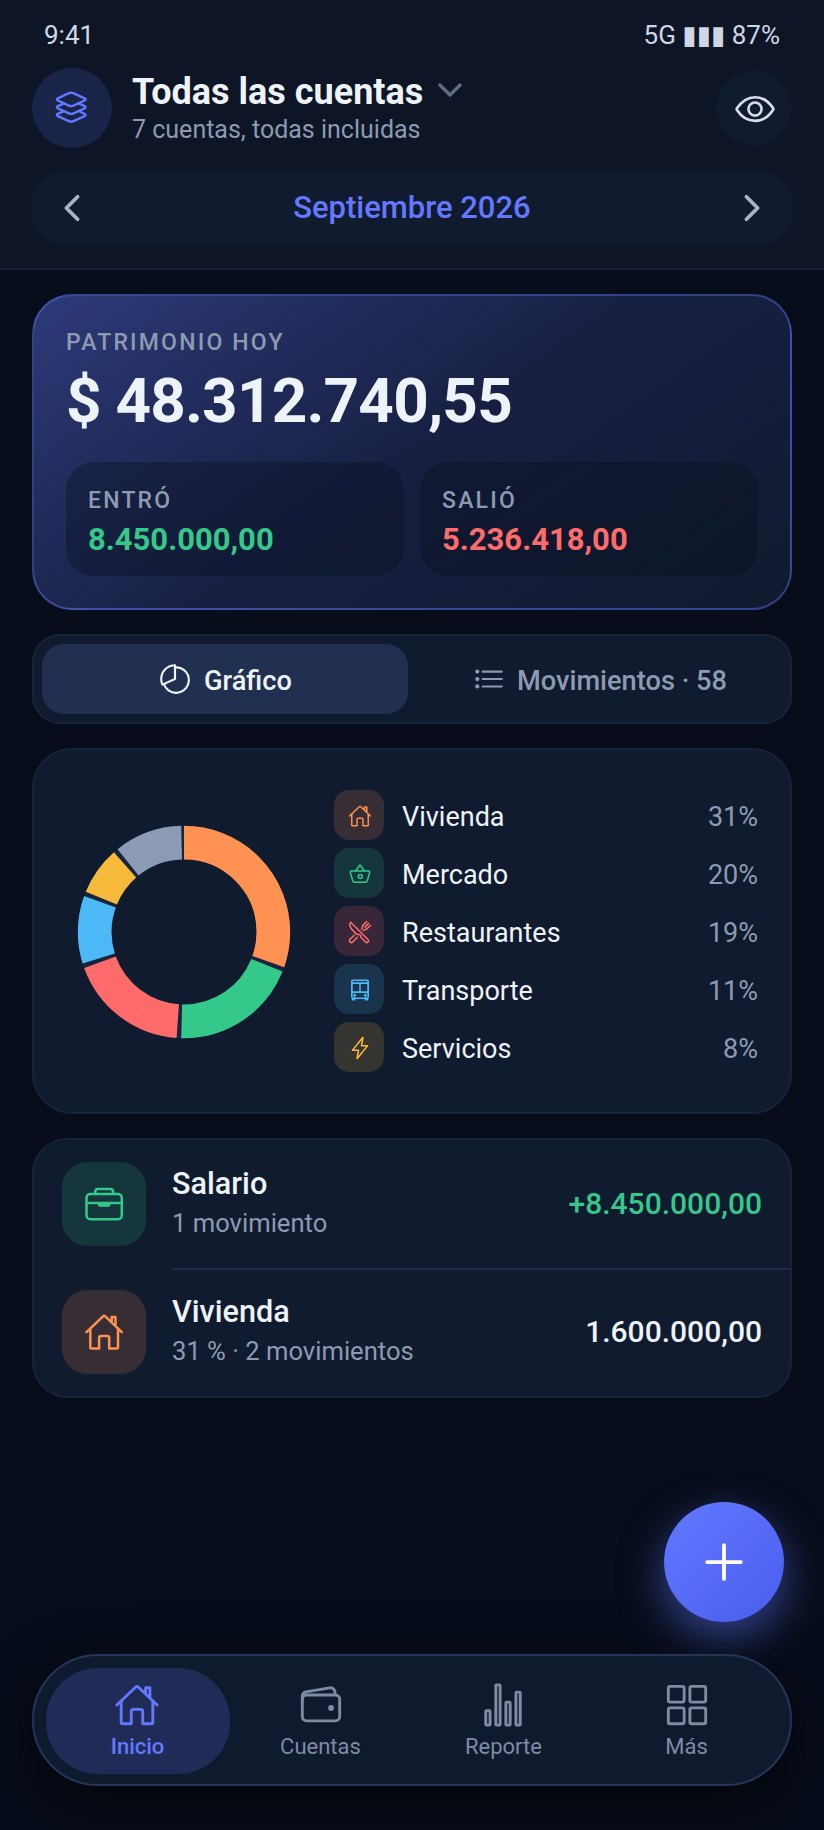
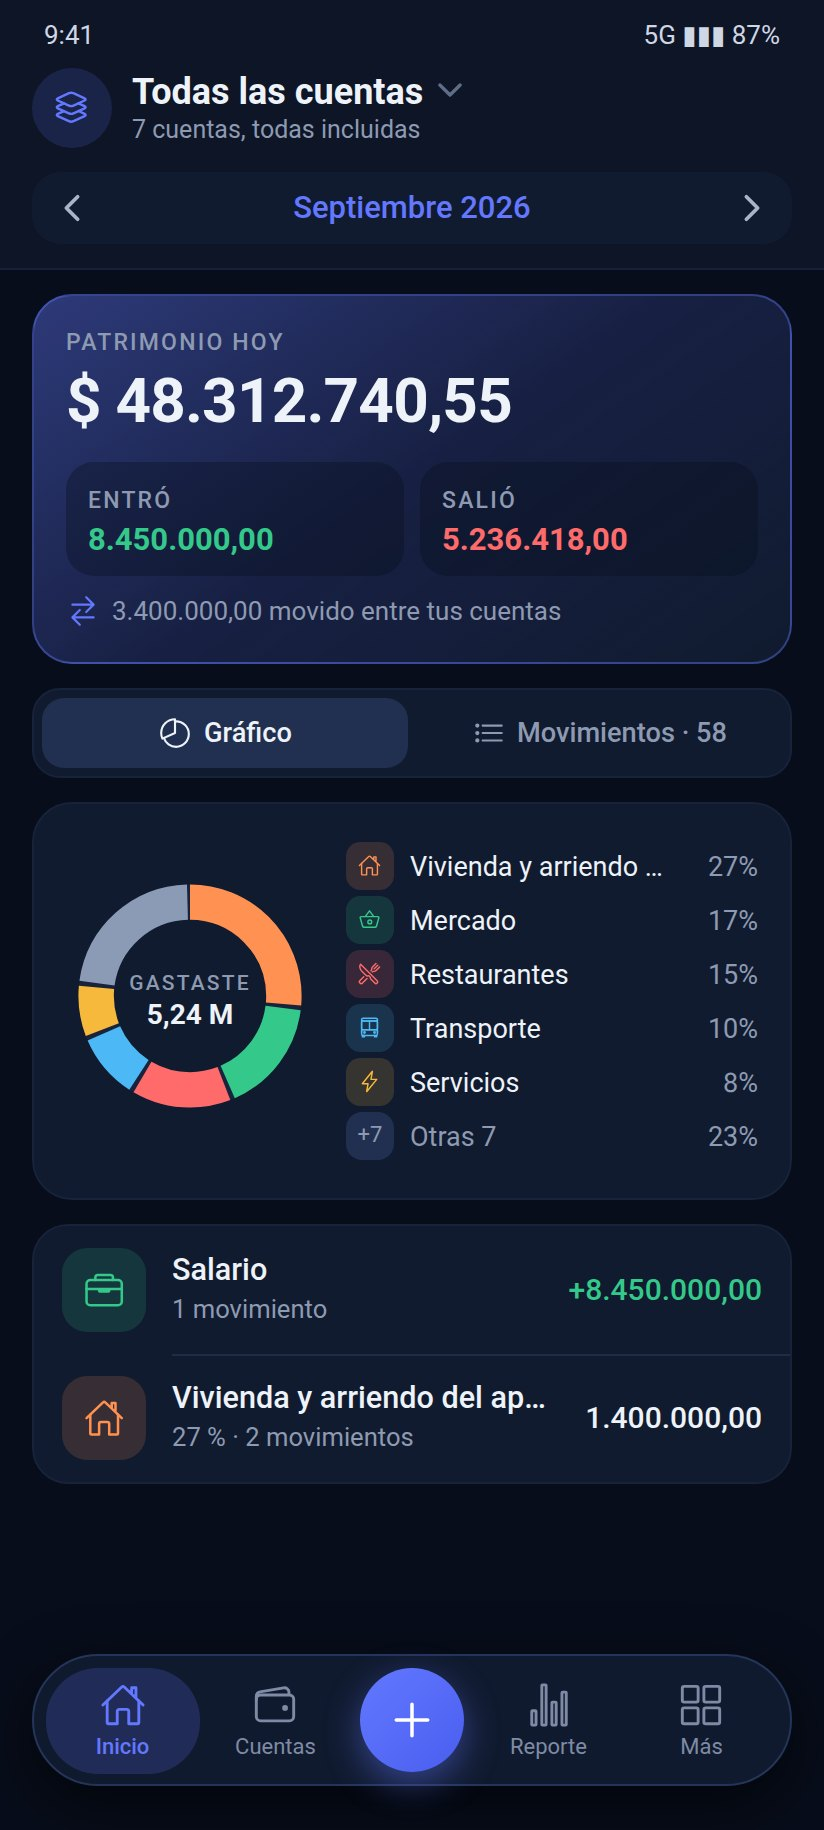
Redraw group 1 of the redesign after Jose's review (v5)
Transfers shown apart from income and spending, as the app does today;
the account's two quick buttons beside its balance; the "+" moved into
the floating bar; no eye to hide amounts; Invertir as an icon on the
divider; the product named under each end of a movement; a donut whose
legend is capped so it never moves. Rules recorded in CLAUDE.md.

Claude-Session: https://claude.ai/code/session_01QyUqFix1SMdsKVBtd1Wz88

diff --git a/CLAUDE.md b/CLAUDE.md
@@ -2049,7 +2049,7 @@ then does the next start. The groups and where each stands:
 
 | Group | Screens | Mockups | Status |
 |---|---|---|---|
-| 1 | Inicio, the "+" sheet, the movement form (every kind), its pickers, edit and delete | `docs/mockups/1*` (v4) | Sent 2026-09-28, waiting for Jose |
+| 1 | Inicio, the "+" sheet, the movement form (every kind), its pickers, edit and delete | `docs/mockups/1*` (v5) | v4 reviewed by Jose; v5 sent 2026-09-28, waiting |
 | 2 | Cuentas, creating and editing an account, its icon and colour, currencies, net worth | `b0*` (v3 draft) | To redo |
 | 3 | Categories and their editor | `b08`-`b13` (v3 draft) | To redo |
 | 4 | Products and yields: how they are reached, an account's products, days, movements, a product with its rates, a CDT | `c*` (v3 draft) | To redo |
@@ -2097,6 +2097,33 @@ then does the next start. The groups and where each stands:
   today and stays, but said plainly and quietly inside the row, not as an
   alarming card.
 
+**And from his review of group 1 v4 (2026-09-28):**
+
+- **Transfers are always on show beside income and spending, never inside
+  them**, as the app does today (`totalsOf`: Movido / Recibido). One
+  account: Entró, Salió, and in blue Recibido and Enviado (from and to the
+  person's own accounts). All accounts: a transfer nets to nothing, and one
+  line says how much moved between them. A transfer in a list carries the
+  swap icon, in blue, with where it came from or went to.
+- **One account's quick buttons stay beside its balance**: edit the
+  account (the drawn card with a pencil) and, for an account that earns,
+  its products and yields (the piggy bank).
+- **The "+" lives in the middle of the floating bar**, never floating over
+  the page, where it covered balances.
+- **No eye to hide amounts** (idea 3/H rejected): the name in the header
+  has the row to itself.
+- **"Invertir" is a round icon on the line between the two ends**, no
+  label and no row of its own; "Pasar todo" with its figure sits under the
+  amount it fills.
+- **Every end of a movement names its account and, under it, its
+  product** when the account has products - spending, income, a transfer
+  and a move between products alike - changeable right there. Lists say
+  the product too ("Cuenta de ahorros → Tarjeta Coral").
+- **The donut keeps one size whatever the month holds.** Beside it, the
+  five largest categories and "Otras N", names ending in "…", percentages
+  in a column of their own; the total spent sits inside the ring. Every
+  category with its figure is the list under it.
+
 ### The ideas, by what they would take
 
 | # | Idea | Size | Touches | Status |
@@ -2105,7 +2132,7 @@ then does the next start. The groups and where each stands:
 | 21 | Settings screen, grouped, value on each row | Medium | Drawer | Proposed |
 | 20 | Empty state on every screen and section | Small, many places | - | Proposed |
 | 19 | Home that teaches a new user (cards) | Medium | Rule 21 (store) | Proposed |
-| 3 | Privacy mode: eye in the header hides amounts | Small (`formatMoney`) | - | Proposed |
+| 3 | Privacy mode: eye in the header hides amounts | - | - | **Rejected** by Jose, 2026-09-28 (little use) |
 | 4 | Biometric or PIN lock (free) | Small, plugin | iOS rule | Proposed |
 | 23 | Version shown; "Eliminar mis datos" | Small | Play policy | Proposed |
 | 17 | Quincena, trimestre, semestre as periods | Small (`period.ts`) | Report | Proposed |
@@ -2120,7 +2147,7 @@ then does the next start. The groups and where each stands:
 | 11 | Crash reports: Play vitals first, Sentry opt-in only | Small | Privacy | Proposed |
 | 8/9 | Voice dictation / receipt photo into the review screen | Large | Rule 22 | Proposed, later |
 | F | Frequent movements in the "+" sheet, one tap each | Medium | Rule 22 (never saved without the tap) | Proposed, liked by Jose |
-| H | Hide amounts with the eye (same as 3) | Small | - | Proposed, liked by Jose |
+| H | Hide amounts with the eye (same as 3) | - | - | **Rejected** by Jose, 2026-09-28 |
 | P | Choose the accent: Zafiro recommended | Small | Design | Waiting for Jose |
 | - | Tags | - | - | **Rejected** by Jose, 2026-09-27 |
 | - | Ads, accounts, a cloud database, attribution | - | Rule 21 | **Not to copy** |

diff --git a/docs/mockups/README.md b/docs/mockups/README.md
@@ -10,7 +10,7 @@ checklist wins.
 
 Agreed group by group (see the table in CLAUDE.md, "How the redesign is
 agreed"). Files starting with a digit are the current version of their
-group (v4 and later); `b*`, `c*`, `d*` are v3 drafts, kept until their group
+group (v4 and later). The "+" sits in the middle of the floating bar from v5, in every file that draws the bar; `b*`, `c*`, `d*` are v3 drafts, kept until their group
 is redone, and superseded by Jose's review of 2026-09-28.
 
 ## The files
@@ -18,7 +18,7 @@ is redone, and superseded by Jose's review of 2026-09-28.
 | File | Screen |
 |---|---|
 | `00-azul-opciones` | The accent: Zafiro (recommended), Cobalto, Índigo, and today's |
-| `1a`–`1n` | Group 1 (v4): Inicio, amounts hidden, one account with a long name (ellipsis and sliding), the "+" sheet, the movement form for spending, writing a note, a transfer, a move between products, two currencies, the account, product and category lists, editing and deleting |
+| `1a`–`1n` | Group 1 (v5): Inicio (transfers apart, the donut with a capped legend), one account with products (its two quick buttons), one account with a long name (ellipsis and sliding), the "+" sheet, the movement form for spending, writing a note, a transfer, a move between products, two currencies, the account, product and category lists, editing and deleting |
 | `b01`–`b04` | Cuentas, how net worth is built, currencies and today's rate, adding a currency |
 | `b05`–`b07` | New account (from a PDF or by hand), editing a card, its icon and colour (`b06b`), the limit history |
 | `b08`–`b13` | Categories (expense, product), and the editor: colour by family, icon, own image, a product category |

diff --git a/docs/08-redesign-checklist.md b/docs/08-redesign-checklist.md
@@ -291,7 +291,7 @@ formulas and the spreadsheet do not change (rule 19).
 
 ## Added by the redesign, each needing Jose's word separately
 
-Not part of "only looks": the eye that hides amounts, frequent movements in
+Not part of "only looks" (the eye that hid amounts was rejected, 2026-09-28): frequent movements in
 the "+" sheet, the biometric lock, the welcome steps for a new user,
 "Eliminar mis datos", the version on screen, fortnight periods. They are in
 the table in CLAUDE.md, "Ideas waiting for Jose's word".
